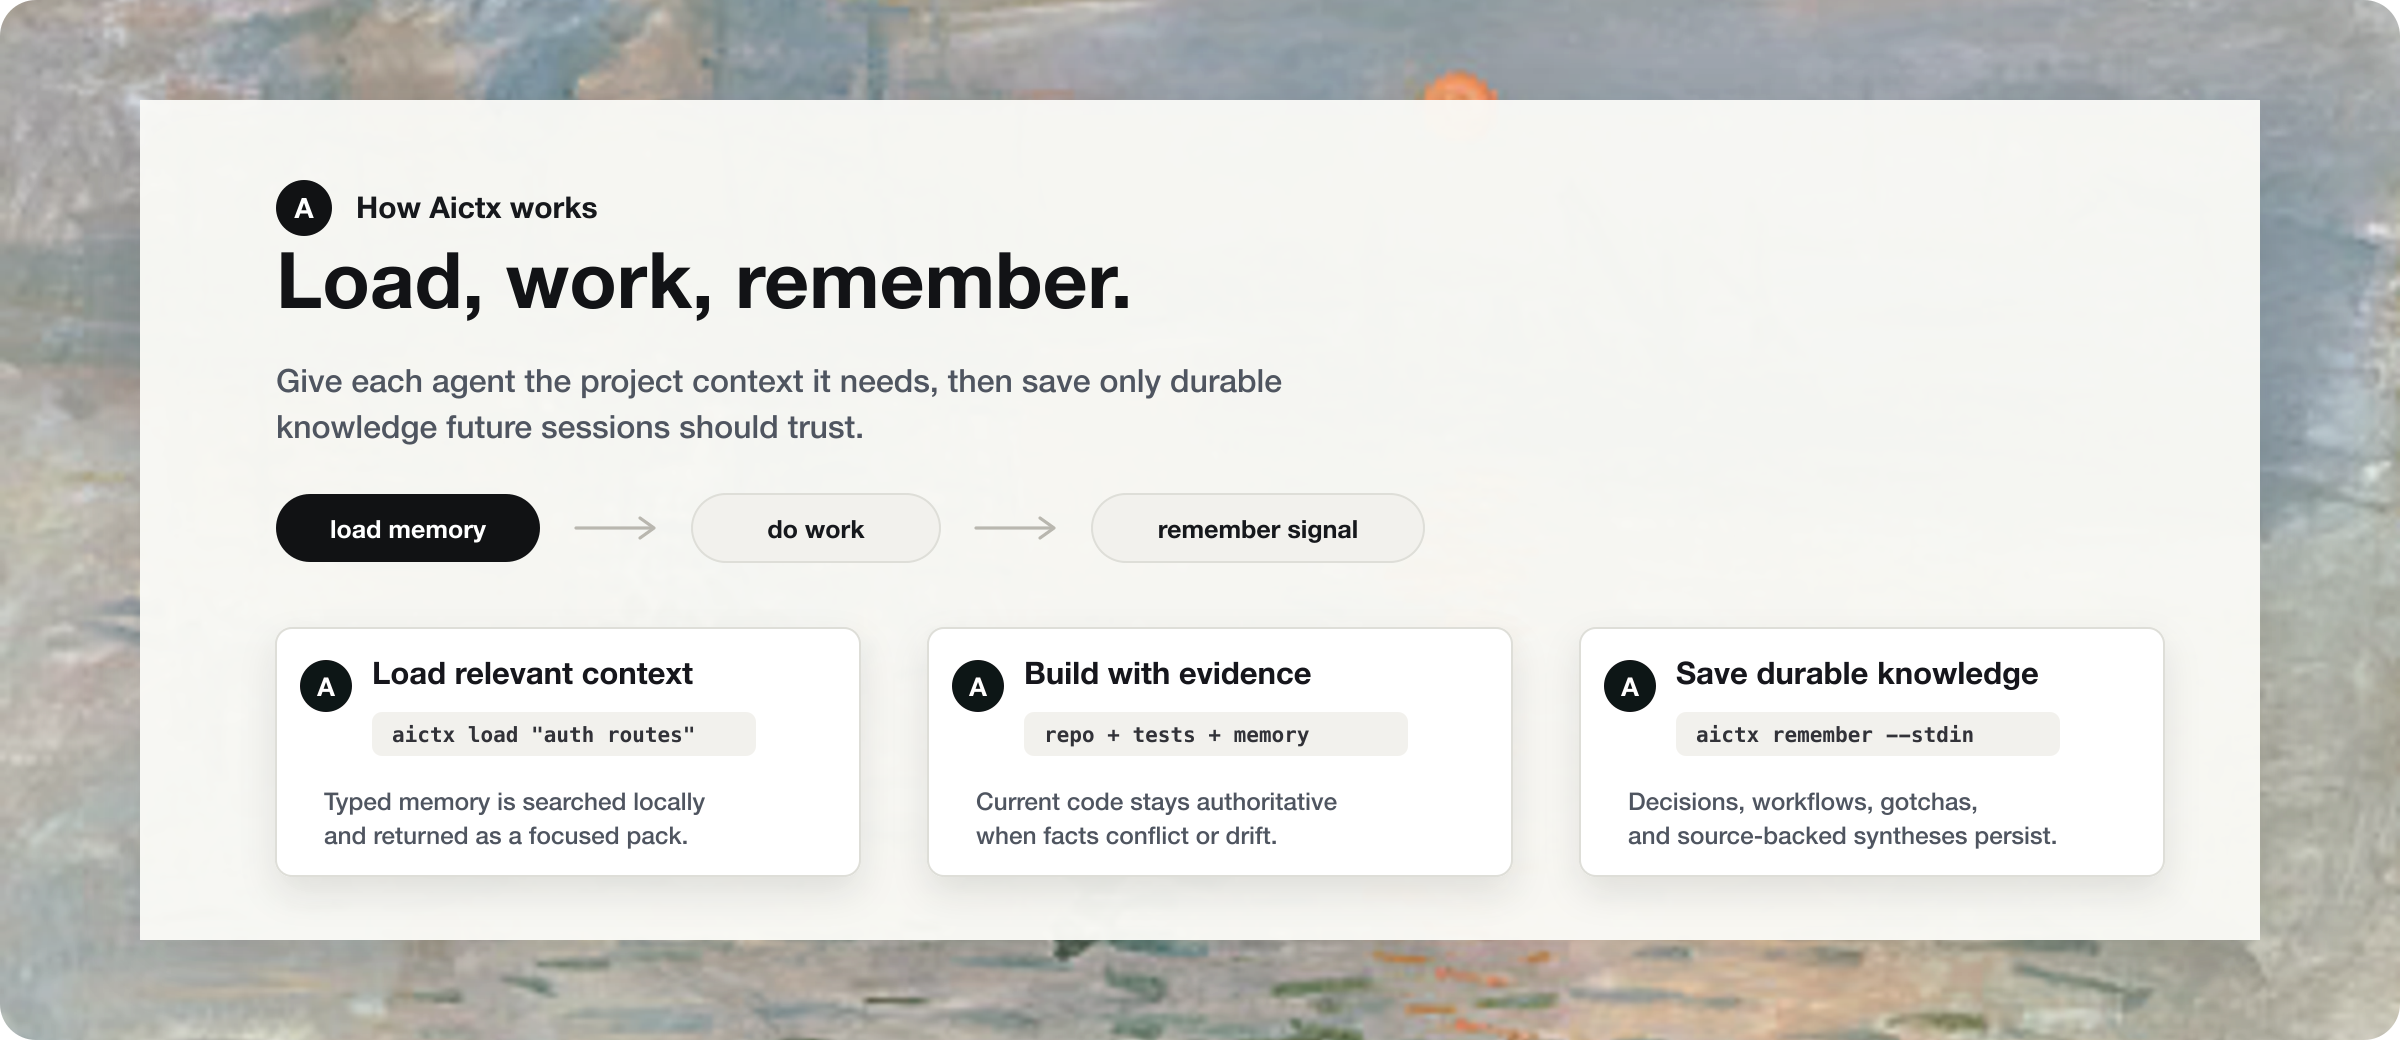
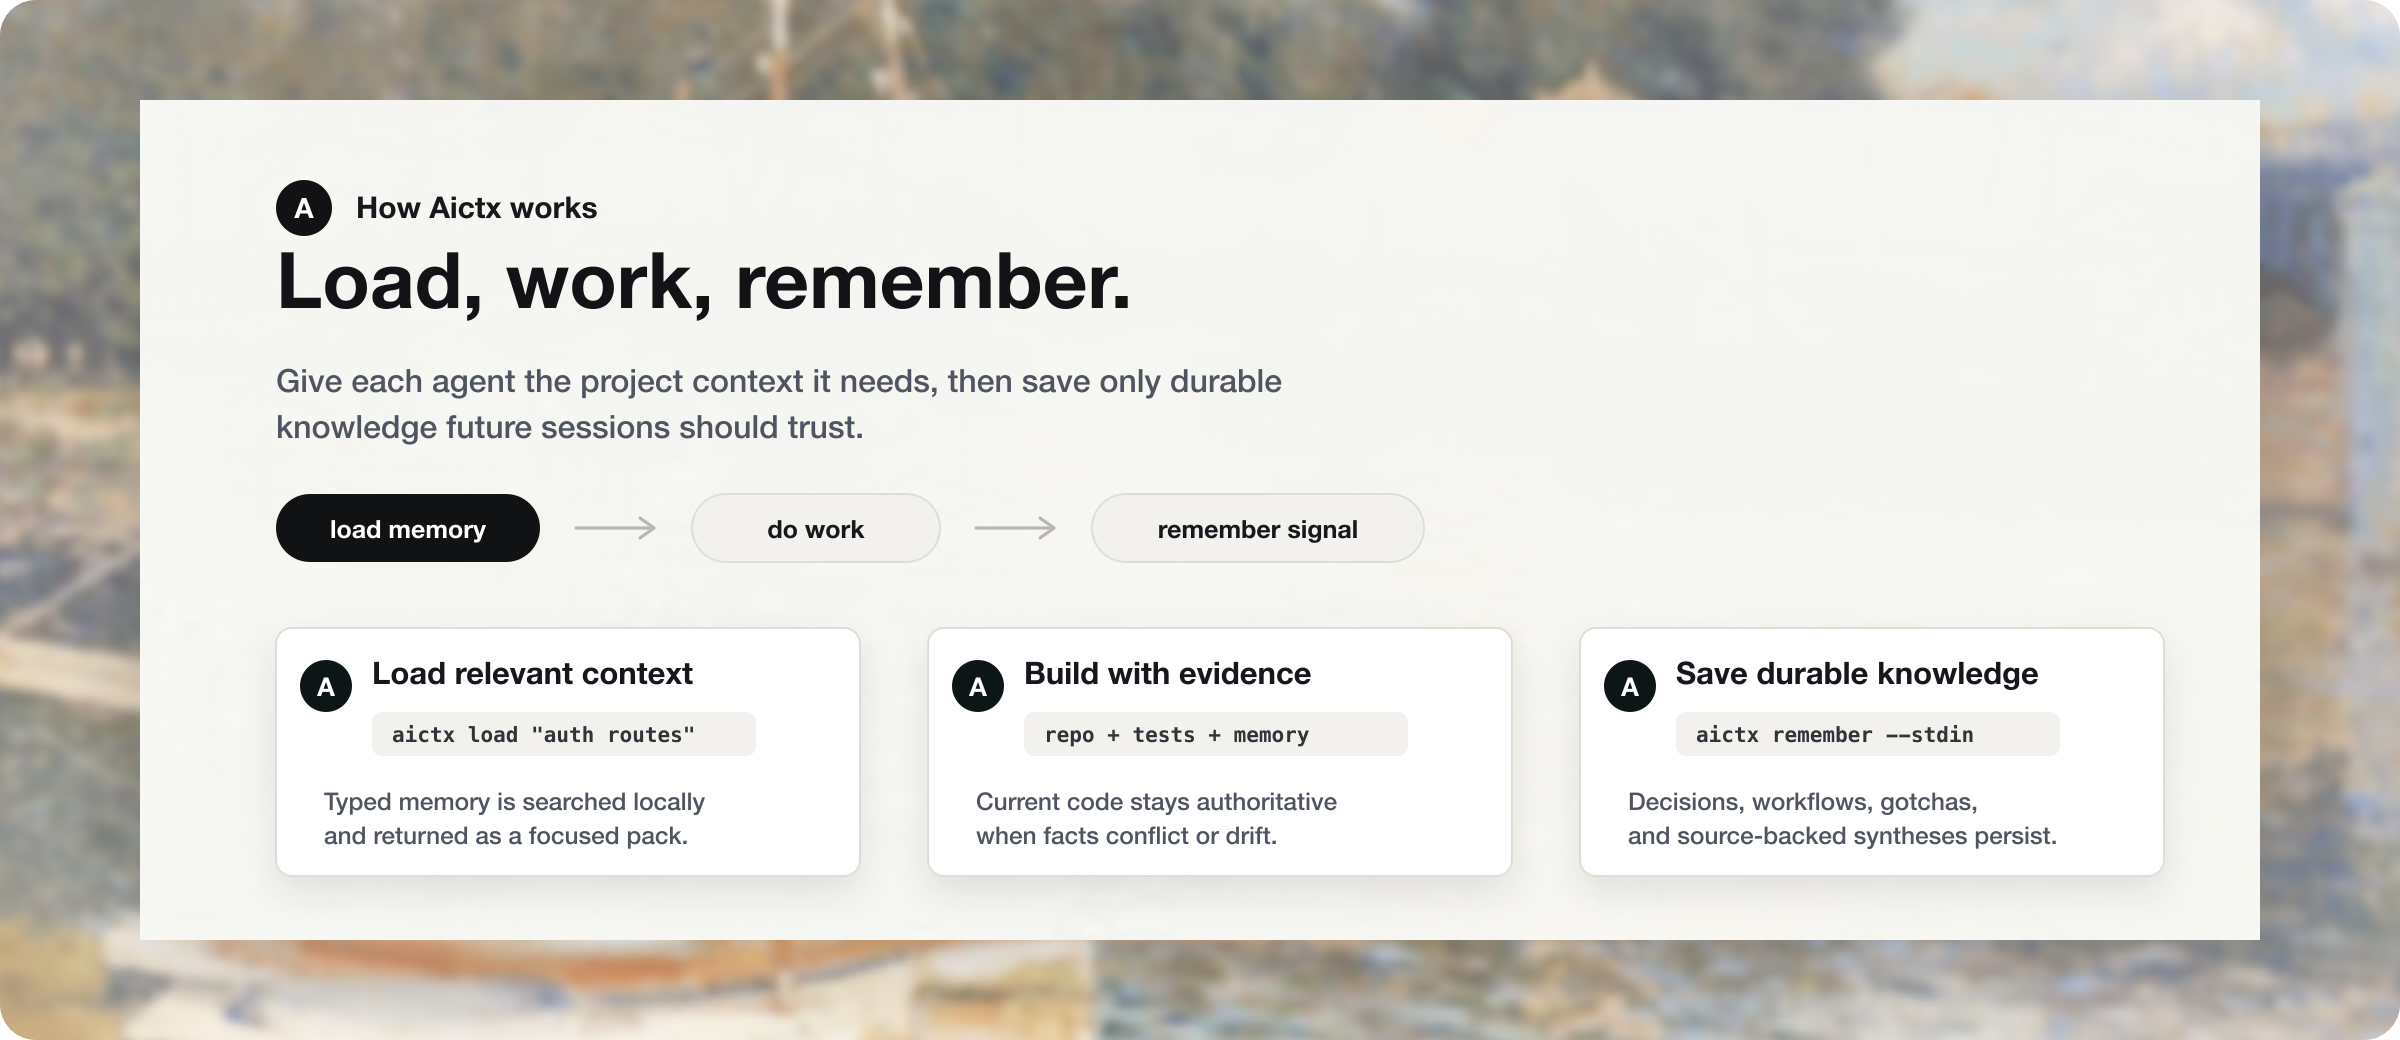
Give README visuals distinct Monet backgrounds

Changed region(s): [[0.0, 0.0, 1.0, 1.0]]

diff --git a/README.md b/README.md
@@ -64,7 +64,7 @@ schema, objects, facets, relations, provenance, and graph context agents load.
   <a href="https://demo.aictx.dev/?token=demo">
     <img
       alt="Aictx viewer showing the memory schema graph with relation overview and canonical storage navigation."
-      src="site/public/assets/viewer-demo.png"
+      src="site/public/assets/readme-visual-memory.png"
       width="940"
     >
   </a>
